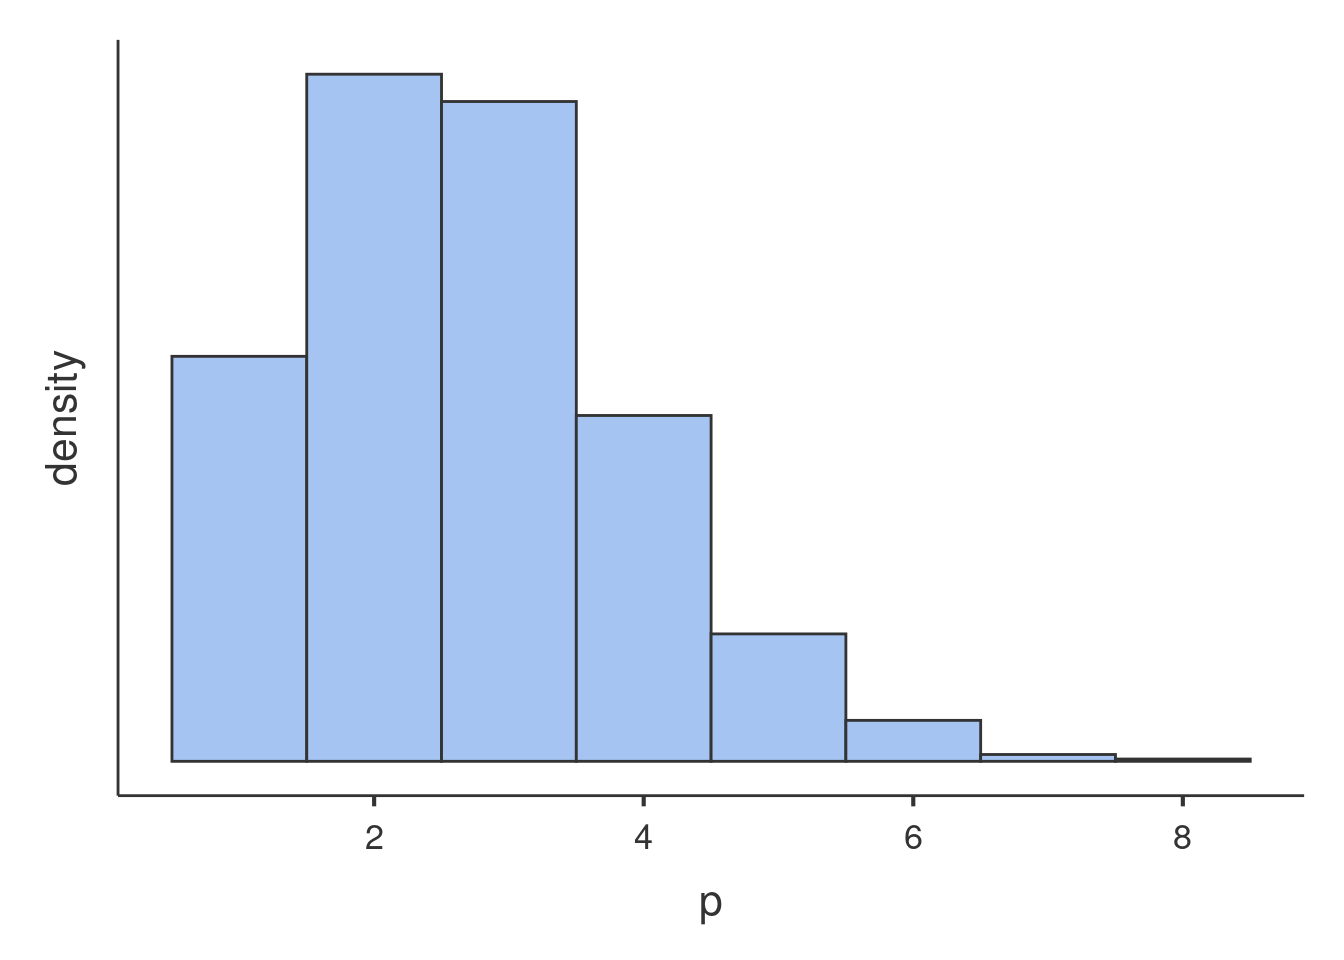
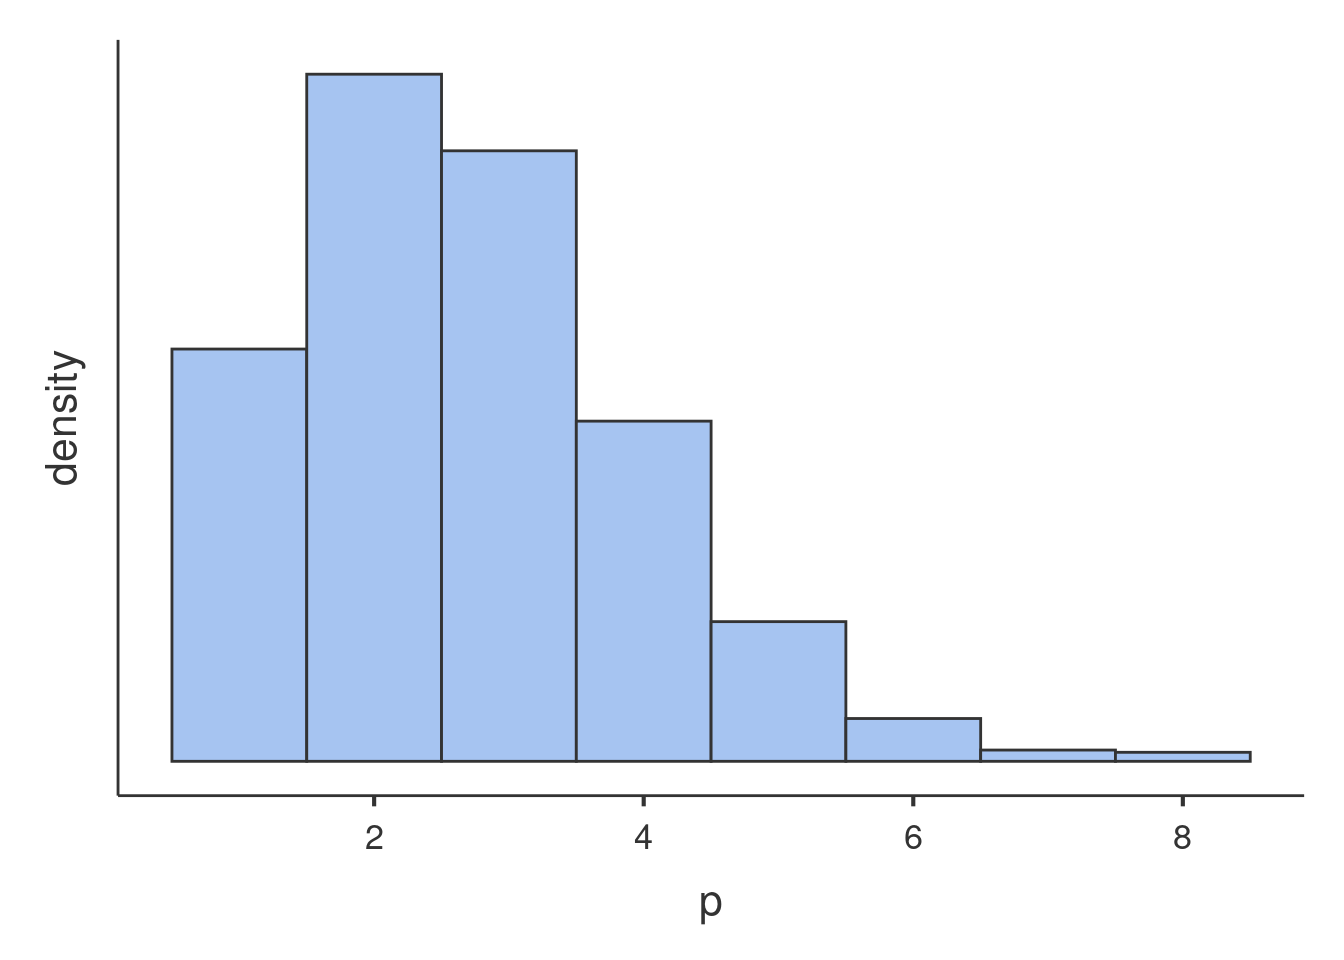
updates

diff --git a/glmmixed_example2.html b/glmmixed_example2.html
@@ -389,7 +389,7 @@ div.tocify {
 <p><img src="glmmixed_example2_files/figure-html/unnamed-chunk-2-1.png" width="672" /></p>
 <p>Glancing at the histogram makes it clear that the distribution is not normal, but it roughly resembles the Poisson distribution. Here is an example of Poisson distribution with equivalent mean.</p>
 <p><img src="glmmixed_example2_files/figure-html/unnamed-chunk-3-1.png" width="672" /></p>
-<p>We can see that the shape of our distribution is not qualitatively very different as compared with a theoretical Poisson distribution, so a Generalized Linear Model with Poisson distribition may work. However, we can check wheather our distribution is in line with the features of the Poisson dist by checking its mean and variance. The Poisson distribution has variance equal to the mean, in fact the simulated distribution in the histogram has <span class="math inline">\(\bar{x}=1.677\)</span> and <span class="math inline">\(s^2=1.522\)</span>. The <code>art</code> variable distribution has <span class="math inline">\(\bar{x}=1.693\)</span> and <span class="math inline">\(s^2=3.71\)</span>, with a ratio variance/mean of 2.191, which does not really qualify for Poisson dist. This looks like a case of <strong>overdispersion</strong>, <a href="http://bbolker.github.io/mixedmodels-misc/glmmFAQ.html#overdispersion">cf. here for details</a>. We will than consider a Negative Binomial model to account for possible overdispersion.</p>
+<p>We can see that the shape of our distribution is not qualitatively very different as compared with a theoretical Poisson distribution, so a Generalized Linear Model with Poisson distribition may work. However, we can check wheather our distribution is in line with the features of the Poisson dist by checking its mean and variance. The Poisson distribution has variance equal to the mean, in fact the simulated distribution in the histogram has <span class="math inline">\(\bar{x}=1.701\)</span> and <span class="math inline">\(s^2=1.699\)</span>. The <code>art</code> variable distribution has <span class="math inline">\(\bar{x}=1.693\)</span> and <span class="math inline">\(s^2=3.71\)</span>, with a ratio variance/mean of 2.191, which does not really qualify for Poisson dist. This looks like a case of <strong>overdispersion</strong>, <a href="http://bbolker.github.io/mixedmodels-misc/glmmFAQ.html#overdispersion">cf. here for details</a>. We will than consider a Negative Binomial model to account for possible overdispersion.</p>
 <p>An example of Negative Binomial distribution with equivalent mean and variance is here.</p>
 <p><img src="glmmixed_example2_files/figure-html/unnamed-chunk-4-1.png" width="672" /></p>
 <p>The second issue one needs to deal with is the structure of the data. We have seen that the students are not a random sample of students drawn independently one each other, but they are grouped by the program they are enrolled in. There are 83 programs, in each program there are on average 11 students. Because students in the same program may be more similar one each other than across programs, <code>programs</code> may cluster the scores of the dependent variable and create dependency in the data. To take dependency into the account, we will use a random intercepts model estimated with a Generalized Mixed Model.</p>
@@ -446,7 +446,7 @@ div.tocify {
 Comments?
 </h1>
 <p>
-Got comments, issues or spotted a bug? Please open an issue on <a href=" https://github.com/mcfanda/gamlj/issues "> GAMLj at github“</a> or <a href="mailto:mcfanda@gmail.com">send me an email</a>
+Got comments, issues or spotted a bug? Please open an issue on <a href="https://github.com/gamlj/gamlj/issues"> GAMLj at github“</a> or <a href="mailto:mcfanda@gmail.com">send me an email</a>
 </p>
 </div>
 

diff --git a/mixed_example_igm.html b/mixed_example_igm.html
@@ -385,6 +385,7 @@ div.tocify {
 <h1>Individual growth model</h1>
 <p>An individual growth model is a model in which a dependent variable is followed over time. Because the change in time is seldom only linear, the model usually involves non linear effects, such as quadratic and cubic effects. Moreover, the model allows each participant to have an individual trajectory over time, meaning that we allow participants to vary in the way time affects the dependent variable.</p>
 <p>The following plot shows the raw data we intend to model.</p>
+<pre><code>## Need help getting started? Try the R Graphics Cookbok: https://r-graphics.org</code></pre>
 <p><img src="mixed_example_igm_files/figure-html/unnamed-chunk-2-1.png" width="672" /></p>
 </div>
 <div id="the-mixed-model" class="section level1">
@@ -461,7 +462,7 @@ div.tocify {
 Comments?
 </h1>
 <p>
-Got comments, issues or spotted a bug? Please open an issue on <a href=" https://github.com/mcfanda/gamlj/issues "> GAMLj at github“</a> or <a href="mailto:mcfanda@gmail.com">send me an email</a>
+Got comments, issues or spotted a bug? Please open an issue on <a href="https://github.com/gamlj/gamlj/issues"> GAMLj at github“</a> or <a href="mailto:mcfanda@gmail.com">send me an email</a>
 </p>
 </div>
 

diff --git a/gmixed_specs.html b/gmixed_specs.html
@@ -424,7 +424,7 @@ Return to main help page: <a href="gzlmmixed.html">Generalized Mixed Models modu
 Comments?
 </h1>
 <p>
-Got comments, issues or spotted a bug? Please open an issue on <a href=" https://github.com/mcfanda/gamlj/issues "> GAMLj at github“</a> or <a href="mailto:mcfanda@gmail.com">send me an email</a>
+Got comments, issues or spotted a bug? Please open an issue on <a href="https://github.com/gamlj/gamlj/issues"> GAMLj at github“</a> or <a href="mailto:mcfanda@gmail.com">send me an email</a>
 </p>
 </div>
 <div id="reference" class="section level1 unnumbered">

diff --git a/rosetta_gzlmmixed1.html b/rosetta_gzlmmixed1.html
@@ -531,7 +531,7 @@ Signif. codes:  0 ‘***’ 0.001 ‘**’ 0.01 ‘*’ 0.05 ‘.’ 0.1 ‘ ’
 Comments?
 </h1>
 <p>
-Got comments, issues or spotted a bug? Please open an issue on <a href=" https://github.com/mcfanda/gamlj/issues "> GAMLj at github“</a> or <a href="mailto:mcfanda@gmail.com">send me an email</a>
+Got comments, issues or spotted a bug? Please open an issue on <a href="https://github.com/gamlj/gamlj/issues"> GAMLj at github“</a> or <a href="mailto:mcfanda@gmail.com">send me an email</a>
 </p>
 </div>
 </div>

diff --git a/gzlm_specs.html b/gzlm_specs.html
@@ -429,7 +429,7 @@ Return to main help page: <a href="gzlm.html">Generalized linear models</a>
 Comments?
 </h1>
 <p>
-Got comments, issues or spotted a bug? Please open an issue on <a href=" https://github.com/mcfanda/gamlj/issues "> GAMLj at github“</a> or <a href="mailto:mcfanda@gmail.com">send me an email</a>
+Got comments, issues or spotted a bug? Please open an issue on <a href="https://github.com/gamlj/gamlj/issues"> GAMLj at github“</a> or <a href="mailto:mcfanda@gmail.com">send me an email</a>
 </p>
 </div>
 

diff --git a/index.html b/index.html
@@ -418,7 +418,7 @@ devtools::install_github(&quot;gamlj/gamlj&quot;)
 Comments?
 </h1>
 <p>
-Got comments, issues or spotted a bug? Please open an issue on <a href=" https://github.com/mcfanda/gamlj/issues "> GAMLj at github“</a> or <a href="mailto:mcfanda@gmail.com">send me an email</a>
+Got comments, issues or spotted a bug? Please open an issue on <a href="https://github.com/gamlj/gamlj/issues"> GAMLj at github“</a> or <a href="mailto:mcfanda@gmail.com">send me an email</a>
 </p>
 </div>
 

diff --git a/rosetta_contrasts.html b/rosetta_contrasts.html
@@ -1225,7 +1225,7 @@ helmert.emmc(levels(dat$Group))</code></pre>
 Comments?
 </h1>
 <p>
-Got comments, issues or spotted a bug? Please open an issue on <a href=" https://github.com/mcfanda/gamlj/issues "> GAMLj at github“</a> or <a href="mailto:mcfanda@gmail.com">send me an email</a>
+Got comments, issues or spotted a bug? Please open an issue on <a href="https://github.com/gamlj/gamlj/issues"> GAMLj at github“</a> or <a href="mailto:mcfanda@gmail.com">send me an email</a>
 </p>
 </div>
 

diff --git a/glm.html b/glm.html
@@ -516,7 +516,7 @@ div.tocify {
 Comments?
 </h1>
 <p>
-Got comments, issues or spotted a bug? Please open an issue on <a href=" https://github.com/mcfanda/gamlj/issues "> GAMLj at github“</a> or <a href="mailto:mcfanda@gmail.com">send me an email</a>
+Got comments, issues or spotted a bug? Please open an issue on <a href="https://github.com/gamlj/gamlj/issues"> GAMLj at github“</a> or <a href="mailto:mcfanda@gmail.com">send me an email</a>
 </p>
 <p>’</p>
 </div>

diff --git a/rosetta_moderation.html b/rosetta_moderation.html
@@ -674,7 +674,7 @@ END GPL.</code></pre>
 Comments?
 </h1>
 <p>
-Got comments, issues or spotted a bug? Please open an issue on <a href=" https://github.com/mcfanda/gamlj/issues "> GAMLj at github“</a> or <a href="mailto:mcfanda@gmail.com">send me an email</a>
+Got comments, issues or spotted a bug? Please open an issue on <a href="https://github.com/gamlj/gamlj/issues"> GAMLj at github“</a> or <a href="mailto:mcfanda@gmail.com">send me an email</a>
 </p>
 </div>
 

diff --git a/vignettes.html b/vignettes.html
@@ -3230,7 +3230,7 @@ Marcello Gallucci
 Comments?
 </h1>
 <p>
-Got comments, issues or spotted a bug? Please open an issue on <a href=" https://github.com/mcfanda/gamlj/issues "> GAMLj at github“</a> or <a href="mailto:mcfanda@gmail.com">send me an email</a>
+Got comments, issues or spotted a bug? Please open an issue on <a href="https://github.com/gamlj/gamlj/issues"> GAMLj at github“</a> or <a href="mailto:mcfanda@gmail.com">send me an email</a>
 </p>
 </div>
 

diff --git a/details_glm_effectsize.html b/details_glm_effectsize.html
@@ -434,7 +434,7 @@ div.tocify {
 Comments?
 </h1>
 <p>
-Got comments, issues or spotted a bug? Please open an issue on <a href=" https://github.com/mcfanda/gamlj/issues "> GAMLj at github“</a> or <a href="mailto:mcfanda@gmail.com">send me an email</a>
+Got comments, issues or spotted a bug? Please open an issue on <a href="https://github.com/gamlj/gamlj/issues"> GAMLj at github“</a> or <a href="mailto:mcfanda@gmail.com">send me an email</a>
 </p>
 </div>
 

diff --git a/examples.html b/examples.html
@@ -466,7 +466,7 @@ div.tocify {
 Comments?
 </h1>
 <p>
-Got comments, issues or spotted a bug? Please open an issue on <a href=" https://github.com/mcfanda/gamlj/issues "> GAMLj at github“</a> or <a href="mailto:mcfanda@gmail.com">send me an email</a>
+Got comments, issues or spotted a bug? Please open an issue on <a href="https://github.com/gamlj/gamlj/issues"> GAMLj at github“</a> or <a href="mailto:mcfanda@gmail.com">send me an email</a>
 </p>
 </div>
 
